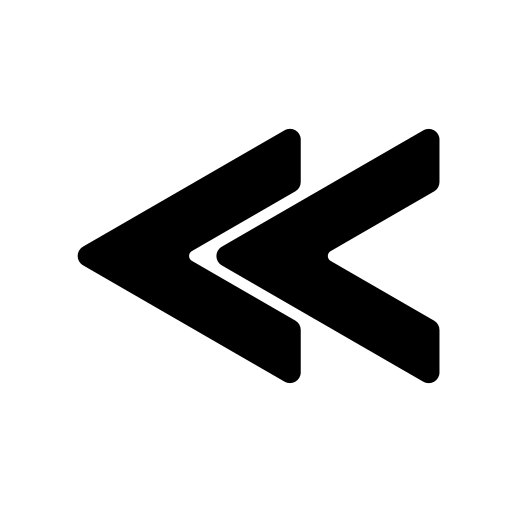
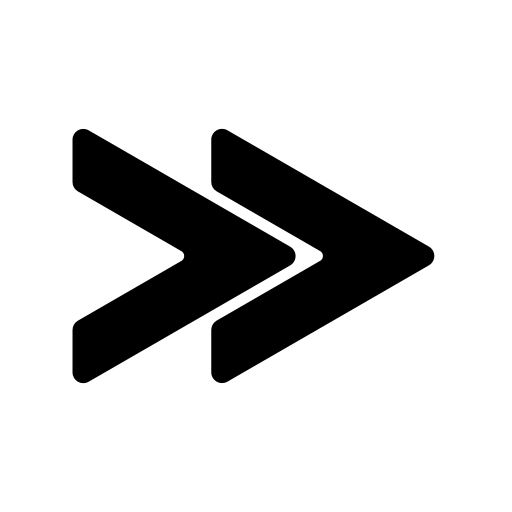
modificacion de canvas a puro css

Changed region(s): [[0.125, 0.25, 0.875, 0.75]]

diff --git a/src/public/styles/movimiento/movimiento.css b/src/public/styles/movimiento/movimiento.css
@@ -1,0 +1,78 @@
+body {
+    font-family: Arial, sans-serif;
+    display: flex;
+    flex-direction: column;
+    align-items: center;
+    margin: 0;
+    padding: 20px;
+}
+
+.escenario {
+    width: 400px;
+    height: 400px;
+    position: relative;
+    border: 2px solid black;
+   
+    background-size: cover;
+    background-position: center;
+}
+
+.personaje {
+    width: 80px;
+    height: 80px;
+    position: absolute;
+    top: 86%;
+    left: 12%;
+    transform: translate(-50%, -50%);
+    transition: transform 0.3s ease;
+}
+
+.personaje img {
+    width: 100%;
+    height: 100%;
+}
+
+.cartas-container {
+    display: flex;
+    margin-bottom: 20px;
+}
+
+.carta {
+    width: 100px;
+    height: 100px;
+    margin: 10px;
+    border: 1px solid #333;
+    background-color: #ddd;
+    cursor: pointer;
+    display: flex;
+    justify-content: center;
+    align-items: center;
+}
+
+.carta img {
+    max-width: 80px;
+    max-height: 80px;
+}
+
+#zona-drop {
+    width: 400px;
+    height: 60px;
+    margin-bottom: 20px;
+    border: 2px dashed #333;
+    display: flex;
+    justify-content: center;
+    align-items: center;
+}
+
+#ejecutar-btn {
+    padding: 10px 20px;
+    background-color: #4CAF50;
+    color: white;
+    border: none;
+    cursor: pointer;
+}
+
+#ejecutar-btn:disabled {
+    background-color: #ccc;
+    cursor: not-allowed;
+}
